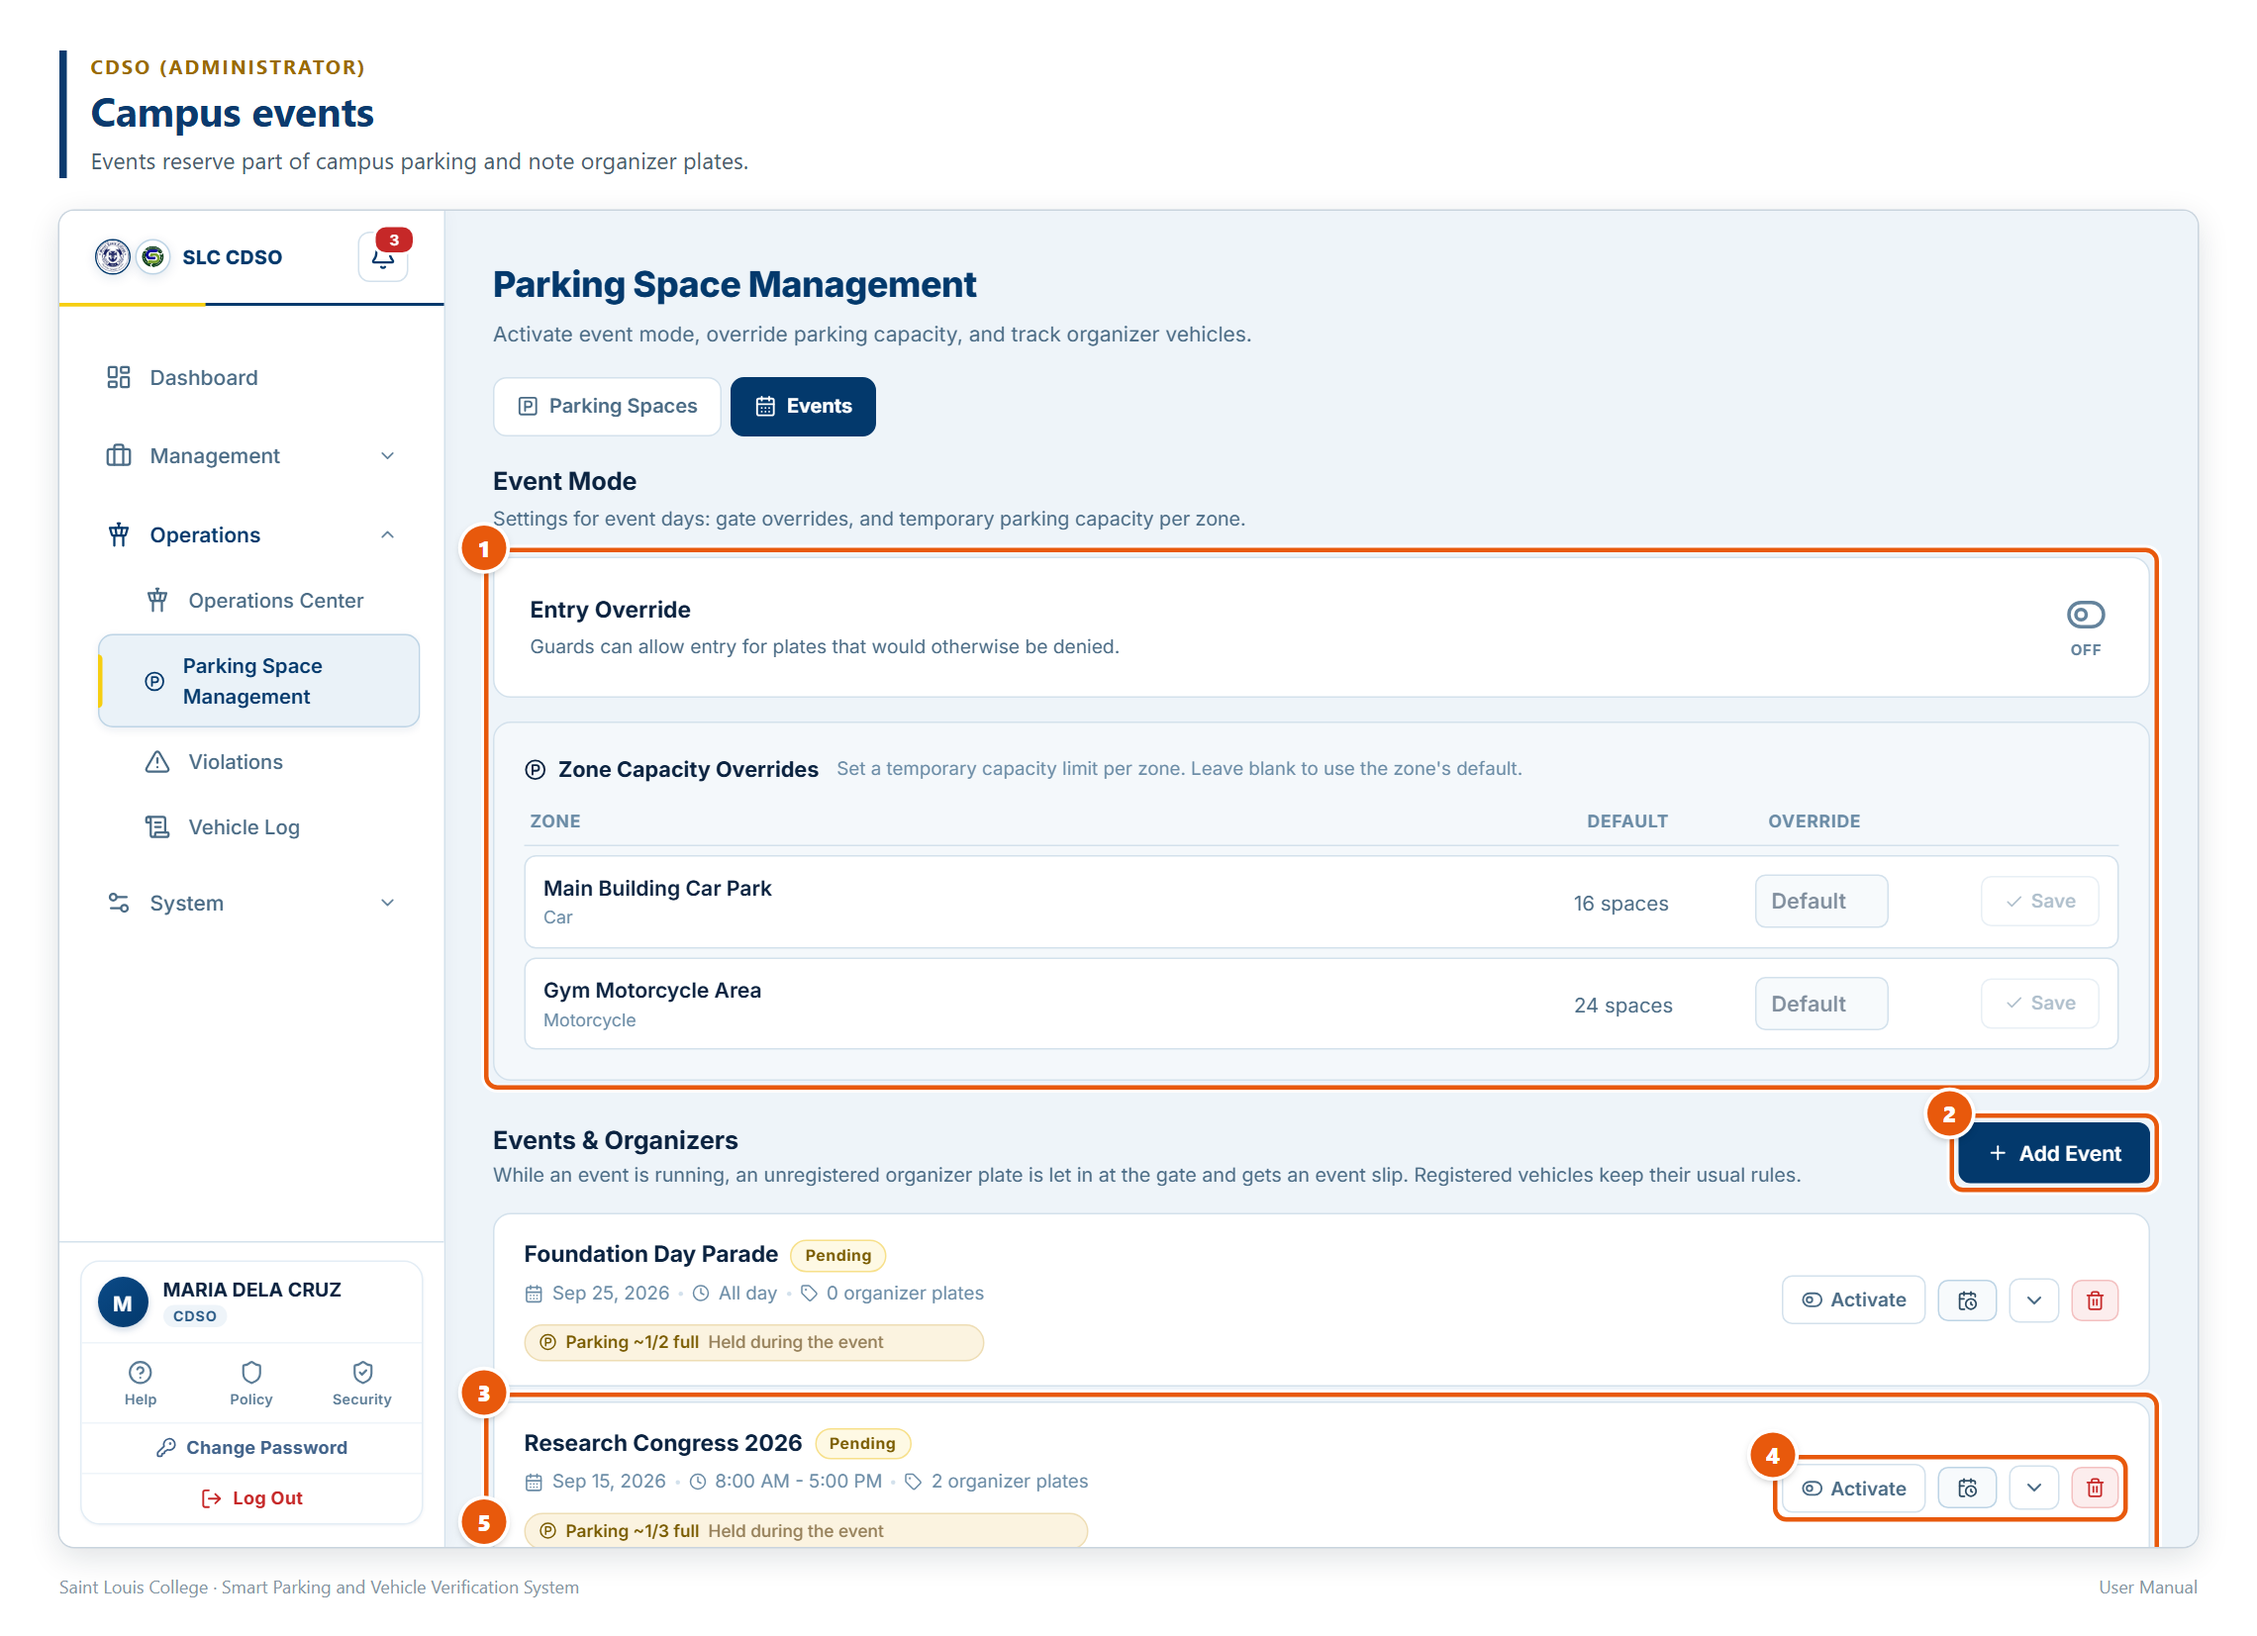
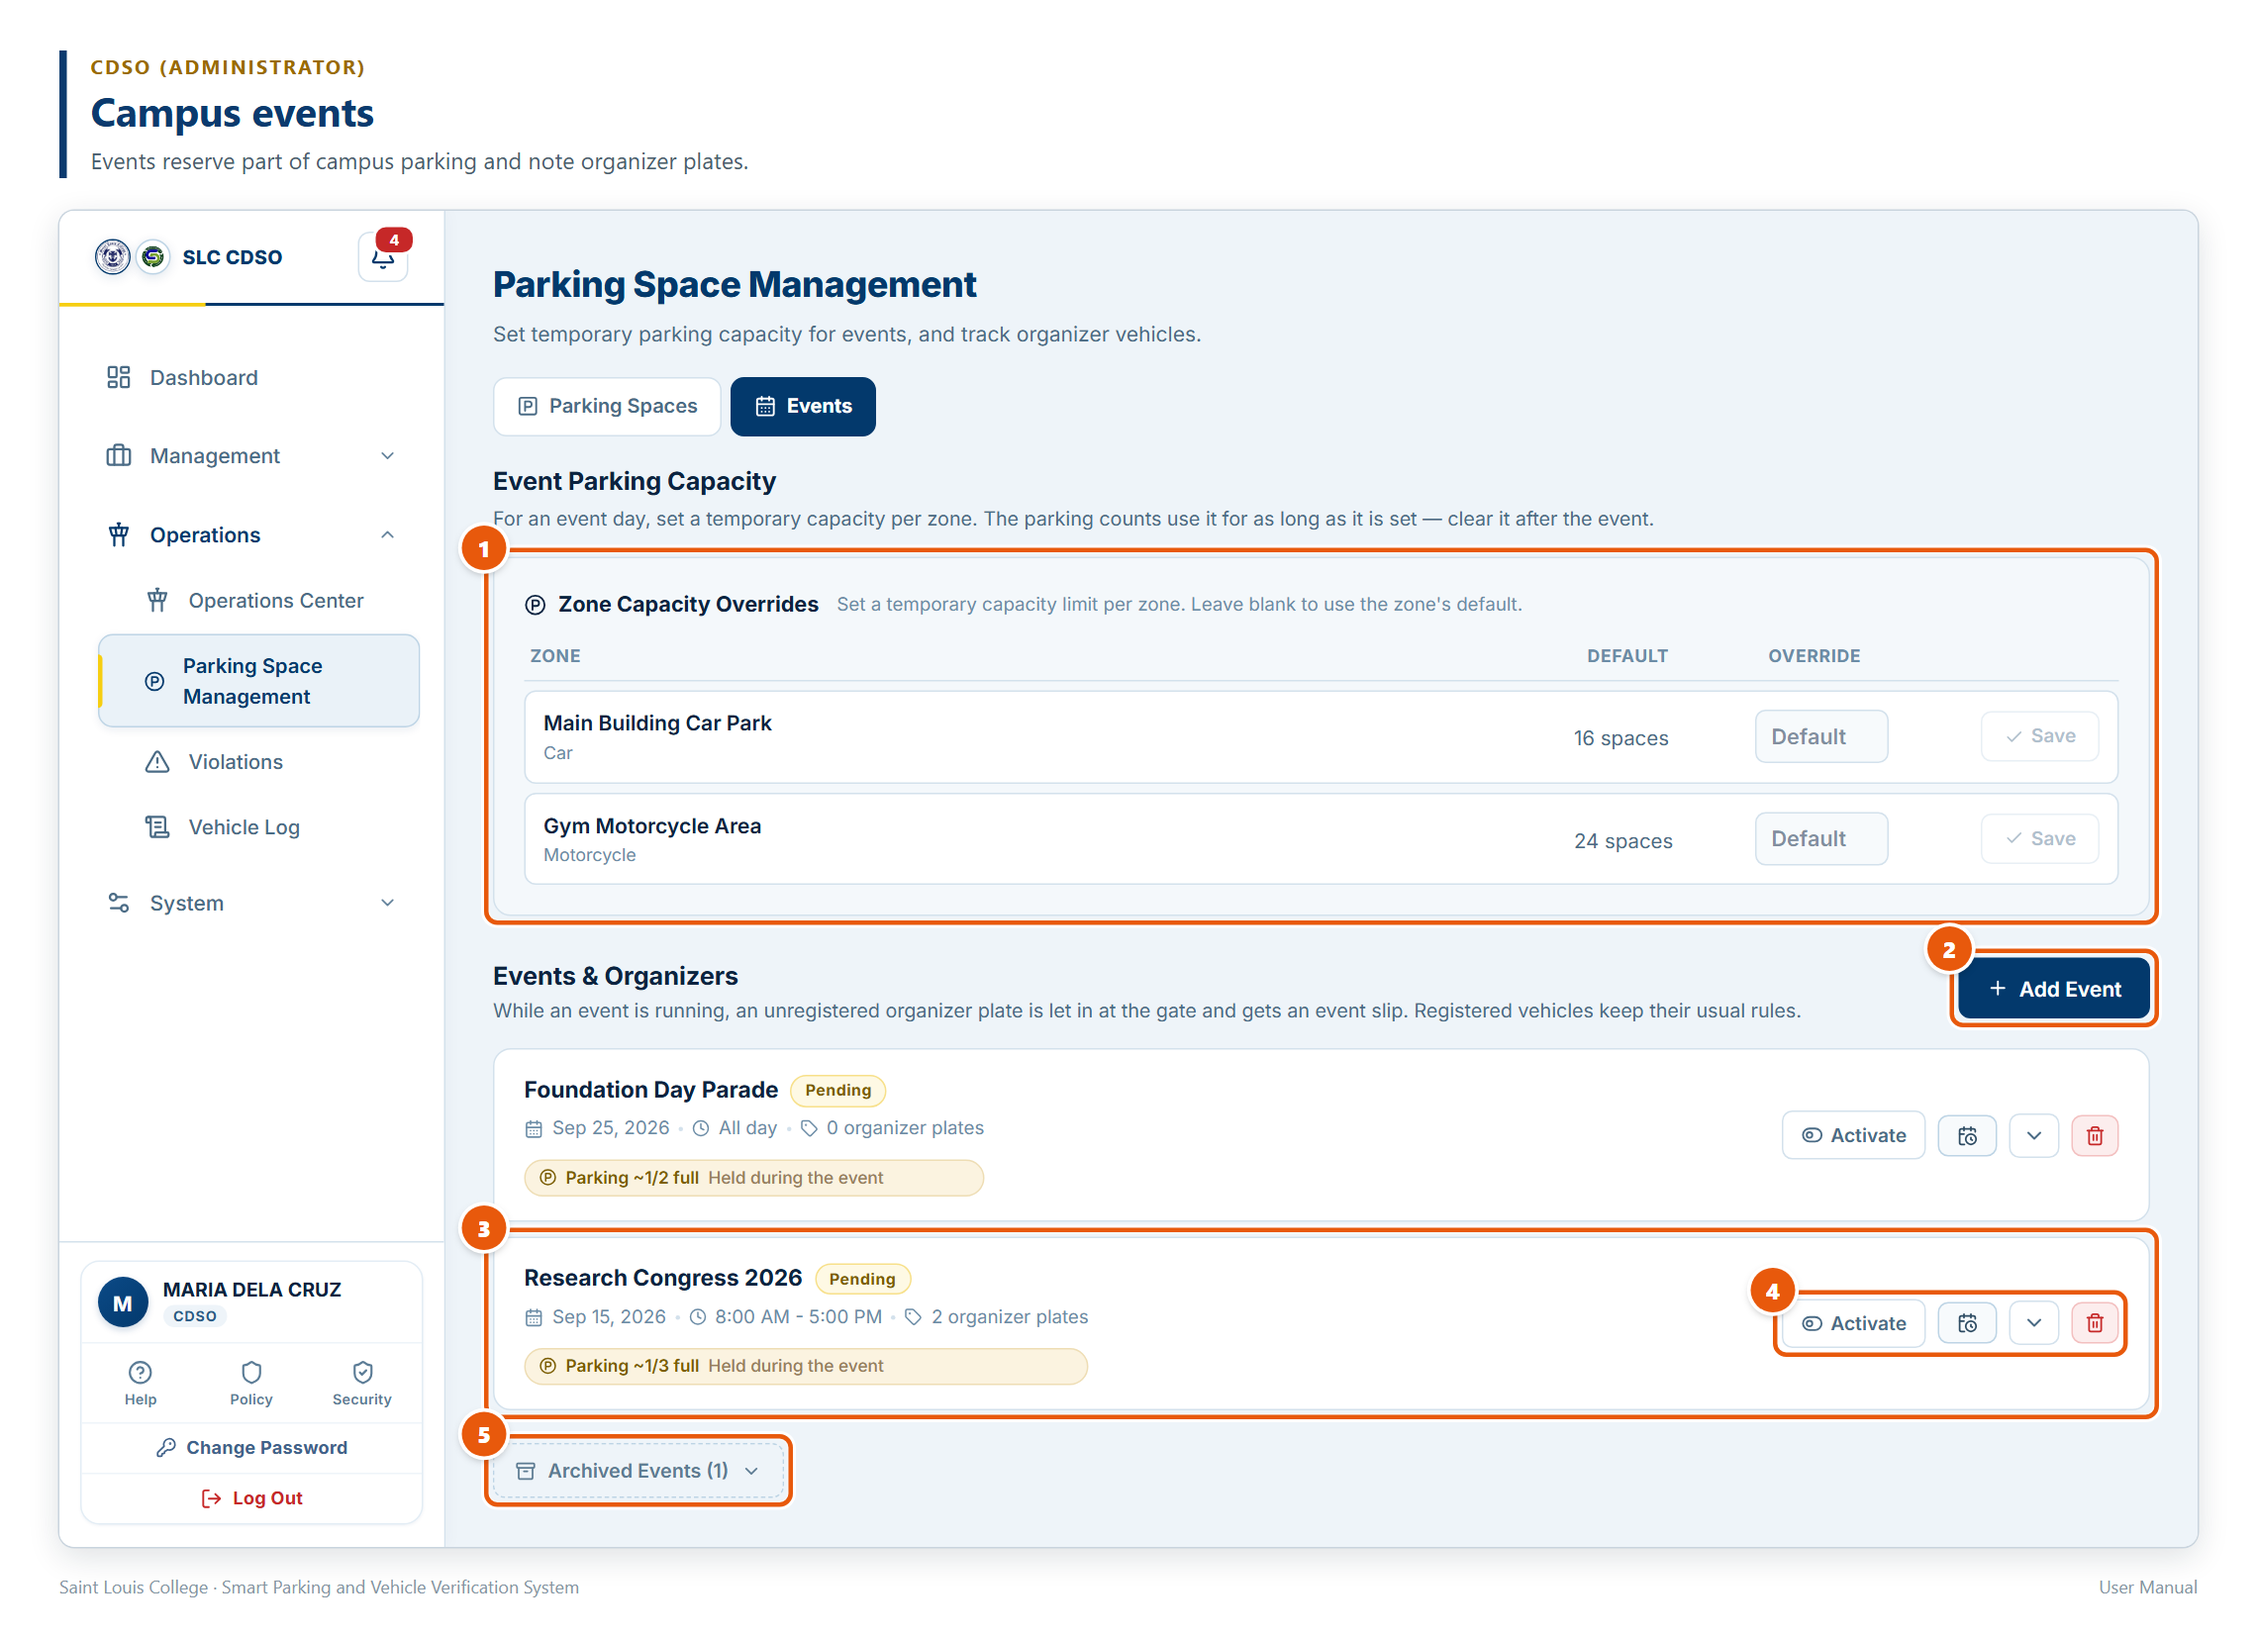
entry overide

diff --git a/frontend/src/pages/Admin/Events.jsx b/frontend/src/pages/Admin/Events.jsx
@@ -10,7 +10,7 @@ import { QRCodeSVG } from 'qrcode.react'
 import notify, { toast } from '../../components/Feedback/notify'
 import { fieldProblems } from '../../components/Feedback/formProblems'
 import AdminLayout from '../../components/Layout/AdminLayout'
-import { getSystemSettings, patchSystemSettings, getEvents, createEvent, patchEvent, deleteEvent } from '../../api/vehicles'
+import { getEvents, createEvent, patchEvent, deleteEvent } from '../../api/vehicles'
 import { lookupSlip, printSlipOnServer } from '../../api/scanning'
 import { printSlipInBrowser } from '../../utils/slipPrint'
 import { zoneApi } from '../../api/parking'
@@ -37,30 +37,6 @@ const shareShort = (v) => PARKING_SHARES.find(s => s.value === v)?.short ?? null
 // each the way the gate compares it — FM001 becomes FM-001.
 const isOrganizerIdentifier = (raw) => isValidPlateNumber(raw) || isValidConductionNumber(raw)
 const IDENTIFIER_ERROR = 'Enter a plate, conduction sticker, or e-bike control number (e.g. FM-001).'
-
-// ── Toggle card for event mode switches ──────────────────────────────
-function ModeToggle({ label, description, enabled, loading, onToggle }) {
-  return (
-    <div className={`ev-mode-card${enabled ? ' ev-mode-card--on' : ''}`}>
-      <div className="ev-mode-info">
-        <span className="ev-mode-label">{label}</span>
-        <p className="ev-mode-desc">{description}</p>
-      </div>
-      <button
-        className={`ev-toggle-btn${enabled ? ' ev-toggle-btn--on' : ''}`}
-        onClick={onToggle}
-        disabled={loading}
-        aria-pressed={enabled}
-      >
-        {loading
-          ? <Loader2 size={22} className="ev-spinner" />
-          : enabled ? <ToggleRight size={28} /> : <ToggleLeft size={28} />
-        }
-        <span>{enabled ? 'ON' : 'OFF'}</span>
-      </button>
-    </div>
-  )
-}
 
 // ── Add Event modal ──────────────────────────────────────────────────
 function AddEventModal({ onClose, onCreated }) {
@@ -783,8 +759,6 @@ function ZoneCapacityRow({ zone, onSaved }) {
 // live as a tab inside Parking Space Management.
 export default function Events({ embedded = false }) {
   const Wrapper = embedded ? Fragment : AdminLayout
-  const [settings, setSettings]           = useState(null)
-  const [modeLoading, setModeLoading]     = useState(false)
   const [zones, setZones]                 = useState([])
   const [events, setEvents]               = useState([])
   const [pageLoading, setPageLoading]     = useState(true)
@@ -793,12 +767,10 @@ export default function Events({ embedded = false }) {
 
   const loadEventsData = () => {
     Promise.all([
-      getSystemSettings(),
       zoneApi.listAll(),
       getEvents(),
     ])
-      .then(([{ data: s }, z, { data: ev }]) => {
-        setSettings(s)
+      .then(([z, { data: ev }]) => {
         setZones(z)
         setEvents(ev)
       })
@@ -808,25 +780,15 @@ export default function Events({ embedded = false }) {
 
   useEffect(() => { loadEventsData() }, [])
 
-  // Live-refresh on event / settings / zone changes
-  useLiveUpdates(loadEventsData, ['event', 'systemsettings', 'parkingzone'])
+  // Live-refresh on event / zone changes
+  useLiveUpdates(loadEventsData, ['event', 'parkingzone'])
 
-  // The Parking Override switch that used to sit beside this one is gone: its
-  // guard button only faked a gate entry, and nothing restricts parking in a
-  // full zone. Its one real effect was hiding the capacity editor below, which
-  // hid overrides that were still in force — so the editor now always shows.
-  const toggleEntryOverride = async () => {
-    setModeLoading(true)
-    try {
-      const { data } = await patchSystemSettings({ event_mode_entry: !settings.event_mode_entry })
-      setSettings(data)
-      toast.success(`Entry override ${data.event_mode_entry ? 'enabled' : 'disabled'}.`)
-    } catch {
-      toast.error('Failed to update event mode.')
-    } finally {
-      setModeLoading(false)
-    }
-  }
+  // This section used to carry two "event mode" switches, Parking Override and
+  // Entry Override. Neither controlled anything: nothing restricts parking in a
+  // full zone, and a guard may override a denied entry on any day (with a
+  // reason, and an audit line). Both were removed. Parking Override's one real
+  // effect was hiding the capacity editor below — hiding limits still in
+  // force — so the editor now always shows.
 
   const handleZoneSaved = (id, val) => {
     setZones(prev => prev.map(z => z.id === id ? { ...z, capacity_override: val } : z))
@@ -842,14 +804,14 @@ export default function Events({ embedded = false }) {
 
         {/* ── Header ─────────────────────────────── */}
         {/* Embedded, this whole block is dropped: the two section headings
-            below ("Event Mode", "Events & Organizers") already say what each
+            below ("Event Parking Capacity", "Events & Organizers") already say what each
             part does, and Add Event moves down to the list it acts on. */}
         {!embedded && (
           <div className="ev-header">
             <div>
               <h1 className="ev-title">Events</h1>
               <p className="ev-subtitle">
-                Activate event mode, manage parking capacity overrides, and track organizer vehicles.
+                Set temporary parking capacity for events, and track organizer vehicles.
               </p>
             </div>
             <button className="ev-btn ev-btn-primary" onClick={() => setShowAdd(true)}>
@@ -865,23 +827,14 @@ export default function Events({ embedded = false }) {
           </div>
         ) : (
           <>
-            {/* ── Event Mode ─────────────────────────── */}
+            {/* ── Event Parking Capacity ─────────────── */}
             <section className="ev-section">
               <div className="ev-section-head">
-                <h2 className="ev-section-title">Event Mode</h2>
+                <h2 className="ev-section-title">Event Parking Capacity</h2>
                 <p className="ev-section-desc">
-                  Settings for event days: gate overrides, and temporary parking capacity per zone.
+                  For an event day, set a temporary capacity per zone. The parking counts use it
+                  for as long as it is set — clear it after the event.
                 </p>
-              </div>
-
-              <div className="ev-mode-grid">
-                <ModeToggle
-                  label="Entry Override"
-                  description="Guards can allow entry for plates that would otherwise be denied."
-                  enabled={settings?.event_mode_entry ?? false}
-                  loading={modeLoading}
-                  onToggle={toggleEntryOverride}
-                />
               </div>
 
               {/* Capacity overrides — always shown: the server applies one

diff --git a/frontend/src/pages/Help/helpFigures.js b/frontend/src/pages/Help/helpFigures.js
@@ -213,7 +213,7 @@ export const HELP_FIGURES = {
     src: img28, width: 1600, height: 1000,
     title: "Campus events",
     caption: "Events reserve part of campus parking and note organizer plates.",
-    callouts: [{"n": 1, "label": "Event Mode", "desc": "Entry Override lets guards admit plates that would be denied; click the switch to turn it on or off. Zone Capacity Overrides set a temporary capacity per zone — leave one blank to use its bays.", "box": {"x": 19.861, "y": 25.276, "w": 78.333, "h": 40.543}, "badge": {"x": 19.861, "y": 25.276}}, {"n": 2, "label": "Add Event", "desc": "Create an event: name, date, times, how much parking it takes, and organizer plates.", "box": {"x": 88.389, "y": 67.597, "w": 9.806, "h": 5.889}, "badge": {"x": 88.389, "y": 67.597}}, {"n": 3, "label": "Event card", "desc": "Date, time, organizer plates, and how much of campus parking the event holds.", "box": {"x": 19.861, "y": 88.446, "w": 78.333, "h": 14.307}, "badge": {"x": 19.861, "y": 88.446}}, {"n": 4, "label": "Event actions", "desc": "Activate the event, reschedule it, show its details, or delete it.", "box": {"x": 80.127, "y": 93.089, "w": 16.609, "h": 5.021}, "badge": {"x": 80.127, "y": 93.089}}, {"n": 5, "label": "Archived Events", "desc": "Past events, kept for reference.", "box": {"x": 19.861, "y": 103.865, "w": 14.436, "h": 5.521}, "badge": {"x": 19.861, "y": 98.111}}],
+    callouts: [{"n": 1, "label": "Event Parking Capacity", "desc": "A temporary capacity per zone for an event day. The parking counts use it while it is set; leave a zone blank to use its bays.", "box": {"x": 19.861, "y": 25.276, "w": 78.333, "h": 28.21}, "badge": {"x": 19.861, "y": 25.276}}, {"n": 2, "label": "Add Event", "desc": "Create an event: name, date, times, how much parking it takes, and organizer plates.", "box": {"x": 88.389, "y": 55.264, "w": 9.806, "h": 5.889}, "badge": {"x": 88.389, "y": 55.264}}, {"n": 3, "label": "Event card", "desc": "Date, time, organizer plates, and how much of campus parking the event holds.", "box": {"x": 19.861, "y": 76.113, "w": 78.333, "h": 14.307}, "badge": {"x": 19.861, "y": 76.113}}, {"n": 4, "label": "Event actions", "desc": "Activate the event, reschedule it, show its details, or delete it.", "box": {"x": 80.127, "y": 80.755, "w": 16.609, "h": 5.021}, "badge": {"x": 80.127, "y": 80.755}}, {"n": 5, "label": "Archived Events", "desc": "Past events, kept for reference.", "box": {"x": 19.861, "y": 91.531, "w": 14.436, "h": 5.521}, "badge": {"x": 19.861, "y": 91.531}}],
   },
   "cdso-violations": {
     src: img29, width: 1600, height: 1000,

diff --git a/frontend/src/pages/Admin/ParkingSpaceManagement.jsx b/frontend/src/pages/Admin/ParkingSpaceManagement.jsx
@@ -29,7 +29,7 @@ const TABS = [
 const BLURB = {
   spaces: 'Draw and edit bay layouts, watch live occupancy, and see which accounts are '
         + 'barred from parking.',
-  events: 'Activate event mode, override parking capacity, and track organizer vehicles.',
+  events: 'Set temporary parking capacity for events, and track organizer vehicles.',
 }
 
 export default function ParkingSpaceManagement() {

diff --git a/backend/vehicles/models.py b/backend/vehicles/models.py
@@ -783,6 +783,9 @@ class SystemSettings(models.Model):
         default=False,
         help_text="When enabled, guards can override full-parking restrictions.",
     )
+    # Retired too: nothing reads it. Guards may override a denied entry on any
+    # day (a reason is required and the override is audited); its Events switch
+    # was removed. The column stays until a two-phase drop.
     event_mode_entry     = models.BooleanField(
         default=False,
         help_text="When enabled, guards can override denied entry scans at the gate.",

diff --git a/docs/user-manual/images/README.md b/docs/user-manual/images/README.md
@@ -345,7 +345,7 @@ Edit Parking Slots mode: draw and adjust bays over the zone’s reference image.
 
 Events reserve part of campus parking and note organizer plates.
 
-1. **Event Mode**: Entry Override lets guards admit plates that would be denied; click the switch to turn it on or off. Zone Capacity Overrides set a temporary capacity per zone — leave one blank to use its bays.
+1. **Event Parking Capacity**: A temporary capacity per zone for an event day. The parking counts use it while it is set; leave a zone blank to use its bays.
 2. **Add Event**: Create an event: name, date, times, how much parking it takes, and organizer plates.
 3. **Event card**: Date, time, organizer plates, and how much of campus parking the event holds.
 4. **Event actions**: Activate the event, reschedule it, show its details, or delete it.
